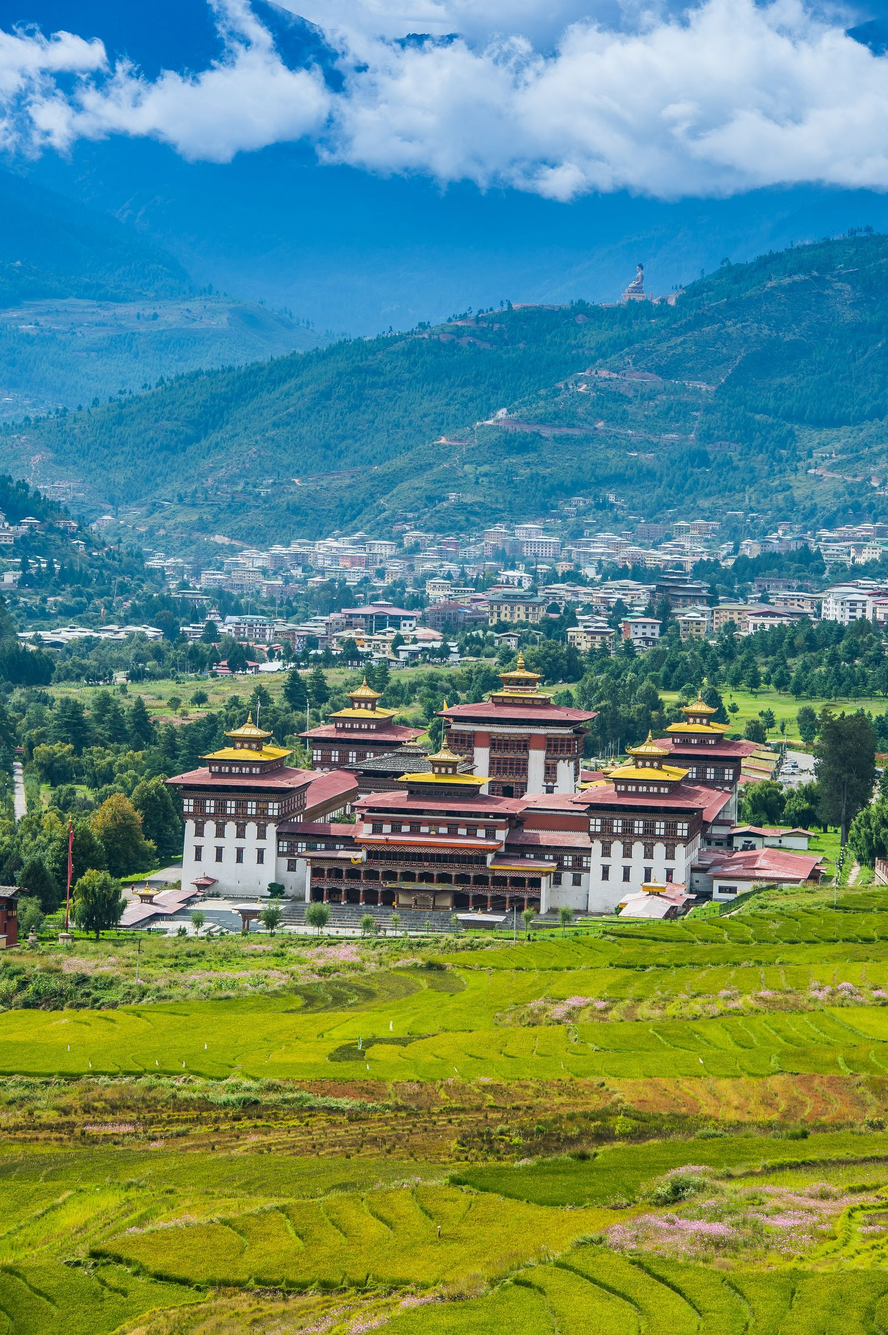
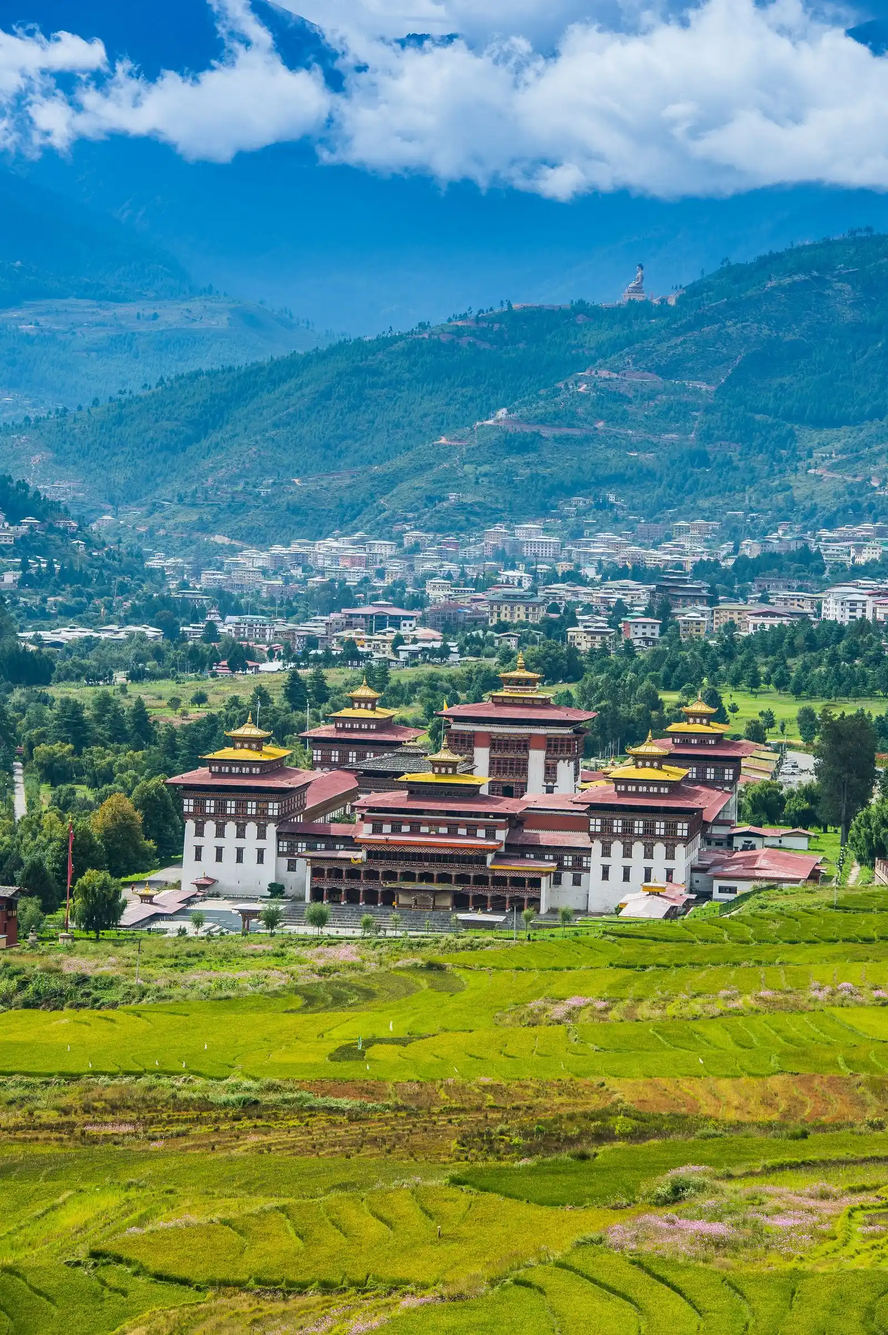
Changes done With Optimization

diff --git a/src/app/exploreIndia/page.jsx b/src/app/exploreIndia/page.jsx
@@ -90,7 +90,7 @@ const exploreIndia = () => {
             <div className="w-fit h-fit flex  ">
               <div className="w-[413px] aspect-[4/5]  overflow-hidden img5">
                 <Image
-                  src={`/india/jaipur1.jpeg`}
+                  src={`/india/jaipur1.webp`}
                   className="w-full h-full  object-cover object-center scale-[1.2]"
                   width={1000}
                   height={1000}
@@ -175,7 +175,7 @@ const exploreIndia = () => {
             <div className="w-fit h-fit flex  ">
               <div className="w-[50vw] h-fit  overflow-hidden img5">
                 <Image
-                  src={`/india/Delhi1.jpeg`}
+                  src={`/india/Delhi1.webp`}
                   className="w-full h-full  object-cover object-center scale-[1.2]"
                   width={2000}
                   height={2000}
@@ -204,7 +204,7 @@ const exploreIndia = () => {
           <div className=" animate_child w-fit h-screen mr-[2vw] flex justify-center items-center">
             <div className="w-[70vw] h-screen flex overflow-hidden ">
               <img
-                src={`/india/Delhi2.jpeg`}
+                src={`/india/Delhi2.webp`}
                 className="w-full h-full object-cover  object-center"
                 alt="Img"
               />
@@ -216,7 +216,7 @@ const exploreIndia = () => {
             <div className="w-fit h-fit flex  ">
               <div className="w-[50vw]  aspect-[3/2]  overflow-hidden img5">
                 <Image
-                  src={`/india/AGRA1.jpeg`}
+                  src={`/india/AGRA1.webp`}
                   className="w-full h-full  object-cover object-center scale-[1.2]"
                   width={2000}
                   height={2000}
@@ -245,7 +245,7 @@ const exploreIndia = () => {
           <div className="animate_child w-fit h-screen mr-[2vw] flex justify-center items-center">
             <div className="w-[413px] aspect-[4/5] flex overflow-hidden ">
               <Image
-                src={`/india/AGRA2.jpeg`}
+                src={`/india/AGRA2.webp`}
                 className="w-full h-full object-cover  object-center"
                 width={1000}
                 height={1000}
@@ -261,7 +261,7 @@ const exploreIndia = () => {
             <div className="w-fit h-fit flex  ">
               <div className="w-[50vw] h-fit  overflow-hidden img5">
                 <Image
-                  src={`/india/Mumbai1.jpeg`}
+                  src={`/india/Mumbai1.webp`}
                   className="w-full h-full  object-cover object-center scale-[1.2]"
                   width={2000}
                   height={2000}
@@ -290,7 +290,7 @@ const exploreIndia = () => {
           <div className=" animate_child w-fit h-screen mr-[2vw] flex justify-center items-center">
             <div className="w-[70vw] h-screen flex overflow-hidden ">
               <img
-                src={`/india/Mumbai2.jpeg`}
+                src={`/india/Mumbai2.webp`}
                 className="w-full h-full object-cover  object-center"
 
                 alt="Img"
@@ -303,7 +303,7 @@ const exploreIndia = () => {
             <div className="w-fit h-fit flex  ">
               <div className="w-[413px] aspect-[4/5]  overflow-hidden img5">
                 <Image
-                  src={`/india/Goa1.jpg`}
+                  src={`/india/Goa1.webp`}
                   className="w-full h-full  object-cover object-center scale-[1.2]"
                   width={1000}
                   height={1000}
@@ -332,7 +332,7 @@ const exploreIndia = () => {
           <div className=" w-fit h-screen mr-[2vw] flex justify-center items-center">
             <div className="w-[413px] aspect-[4/5] flex overflow-hidden ">
               <Image
-                src={`/india/Goa2.jpeg`}
+                src={`/india/Goa2.webp`}
                 className="w-full h-full object-cover  object-center"
                 width={1000}
                 height={1000}
@@ -375,7 +375,7 @@ const exploreIndia = () => {
           <div className=" animate_child w-fit h-screen mr-[2vw] flex justify-center items-center">
             <div className="w-[413px] aspect-[4/5] flex overflow-hidden ">
               <Image
-                src={`/india/Kerala2.jpeg`}
+                src={`/india/Kerala2.webp`}
                 className="w-full h-full object-cover  object-center"
                 width={1000}
                 height={1000}
@@ -389,7 +389,7 @@ const exploreIndia = () => {
             <div className="w-fit h-fit flex  ">
               <div className="w-[50vw] h-fit  overflow-hidden img5">
                 <Image
-                  src={`/india/Jammu1.jpg`}
+                  src={`/india/Jammu1.webp`}
                   className="w-full h-full  object-cover object-center scale-[1.2]"
                   width={2000}
                   height={2000}
@@ -418,7 +418,7 @@ const exploreIndia = () => {
           <div className=" animate_child w-fit h-screen mr-[2vw] flex justify-center items-center">
             <div className="w-[70vw] h-screen flex overflow-hidden ">
               <img
-                src={`/india/Jammu2.jpeg`}
+                src={`/india/Jammu2.webp`}
                 className="w-full h-full object-cover  object-center"
                 alt="Img"
               />
@@ -476,7 +476,7 @@ const exploreIndia = () => {
             <div className="w-fit h-fit flex  ">
               <div className="w-[50vw] h-fit  overflow-hidden img5">
                 <Image
-                  src={`/india/Uttarakhand1.jpeg`}
+                  src={`/india/Uttarakhand1.webp`}
                   className="w-full h-full  object-cover object-center scale-[1.2]"
                   width={2000}
                   height={2000}
@@ -505,7 +505,7 @@ const exploreIndia = () => {
           <div className=" animate_child w-fit h-screen mr-[2vw] flex justify-center items-center">
             <div className="w-[70vw] h-screen flex overflow-hidden ">
               <img
-                src={`/india/Uttarakhand1.jpeg`}
+                src={`/india/Uttarakhand1.webp`}
                 className="w-full h-full object-cover  object-center"
 
                 alt="Img"
@@ -518,7 +518,7 @@ const exploreIndia = () => {
             <div className="w-fit h-fit flex  ">
               <div className="w-[413px] aspect-[4/5]  overflow-hidden img5">
                 <Image
-                  src={`/india/Andaman1.jpg`}
+                  src={`/india/Andaman1.webp`}
                   className="w-full h-full  object-cover object-center scale-[1.2]"
                   width={1000}
                   height={1000}
@@ -547,7 +547,7 @@ const exploreIndia = () => {
           <div className=" w-fit h-screen mr-[2vw] flex justify-center items-center">
             <div className="w-[413px] aspect-[4/5] flex overflow-hidden ">
               <Image
-                src={`/india/Andaman2.jpeg`}
+                src={`/india/Andaman2.webp`}
                 className="w-full h-full object-cover  object-center"
                 width={1000}
                 height={1000}
@@ -561,7 +561,7 @@ const exploreIndia = () => {
             <div className="w-fit h-fit flex  ">
               <div className="w-[50vw] h-screen  overflow-hidden img5">
                 <Image
-                  src={`/india/Lakshadweep1.jpg`}
+                  src={`/india/Lakshadweep1.webp`}
                   className="w-full h-full  object-cover object-center scale-[1.2]"
                   width={2000}
                   height={2000}
@@ -689,7 +689,7 @@ const exploreIndia = () => {
             <div className="w-fit h-fit flex  ">
               <div className="w-[50vw] h-fit  overflow-hidden img5">
                 <Image
-                  src={`/india/Nepal1.jpg`}
+                  src={`/india/Nepal1.webp`}
                   className="w-full h-full  object-cover object-center scale-[1.2]"
                   width={2000}
                   height={2000}
@@ -863,7 +863,7 @@ const exploreIndia = () => {
 
           {/* img1 */}
           <div className="w-full aspect-2/1 overflow-hidden ">
-            <img src={`/india/jaipur1.jpeg`} className="w-full h-full object-cover  object-center" alt="img" />
+            <img src={`/india/jaipur1.webp`} className="w-full h-full object-cover  object-center" alt="img" />
           </div>
 
           {/* img2 */}
@@ -919,12 +919,12 @@ const exploreIndia = () => {
 
           {/* img1 */}
           <div className="w-full aspect-2/1 overflow-hidden ">
-            <img src={`/india/Delhi1.jpeg`} className="w-full h-full object-cover  object-center" alt="img" />
+            <img src={`/india/Delhi1.webp`} className="w-full h-full object-cover  object-center" alt="img" />
           </div>
 
           {/* img2 */}
           <div className="w-full aspect-1/1 overflow-hidden ">
-            <img src={`/india/Delhi2.jpeg`} className="w-full h-full object-cover  object-center" alt="img" />
+            <img src={`/india/Delhi2.webp`} className="w-full h-full object-cover  object-center" alt="img" />
           </div>
 
           {/* 4 ---------------------------------------------------------------------------------- */}
@@ -947,12 +947,12 @@ const exploreIndia = () => {
 
           {/* img1 */}
           <div className="w-full aspect-2/1 overflow-hidden ">
-            <img src={`/india/AGRA1.jpeg`} className="w-full h-full object-cover  object-center" alt="img" />
+            <img src={`/india/AGRA1.webp`} className="w-full h-full object-cover  object-center" alt="img" />
           </div>
 
           {/* img2 */}
           <div className="w-full aspect-1/1 overflow-hidden ">
-            <img src={`/india/AGRA2.jpeg`} className="w-full h-full object-cover  object-center" alt="img" />
+            <img src={`/india/AGRA2.webp`} className="w-full h-full object-cover  object-center" alt="img" />
           </div>
 
           {/* 5 ---------------------------------------------------------------------------------- */}
@@ -975,12 +975,12 @@ const exploreIndia = () => {
 
           {/* img1 */}
           <div className="w-full aspect-2/1 overflow-hidden ">
-            <img src={`/india/Mumbai1.jpeg`} className="w-full h-full object-cover  object-center" alt="img" />
+            <img src={`/india/Mumbai1.webp`} className="w-full h-full object-cover  object-center" alt="img" />
           </div>
 
           {/* img2 */}
           <div className="w-full aspect-1/1 overflow-hidden ">
-            <img src={`/india/Mumbai2.jpeg`} className="w-full h-full object-cover  object-center" alt="img" />
+            <img src={`/india/Mumbai2.webp`} className="w-full h-full object-cover  object-center" alt="img" />
           </div>
 
           {/* 1 ---------------------------------------------------------------------------------- */}
@@ -1003,12 +1003,12 @@ const exploreIndia = () => {
 
           {/* img1 */}
           <div className="w-full aspect-2/1 overflow-hidden ">
-            <img src={`/india/Goa1.jpg`} className="w-full h-full object-cover  object-center" alt="img" />
+            <img src={`/india/Goa1.webp`} className="w-full h-full object-cover  object-center" alt="img" />
           </div>
 
           {/* img2 */}
           <div className="w-full aspect-1/1 overflow-hidden ">
-            <img src={`/india/Goa2.jpeg`} className="w-full h-full object-cover  object-center" alt="img" />
+            <img src={`/india/Goa2.webp`} className="w-full h-full object-cover  object-center" alt="img" />
           </div>
 
           {/* 2 ---------------------------------------------------------------------------------- */}
@@ -1036,7 +1036,7 @@ const exploreIndia = () => {
 
           {/* img2 */}
           <div className="w-full aspect-1/1 overflow-hidden ">
-            <img src={`/india/Kerala2.jpeg`} className="w-full h-full object-cover  object-center" alt="img" />
+            <img src={`/india/Kerala2.webp`} className="w-full h-full object-cover  object-center" alt="img" />
           </div>
 
           {/* 3 ---------------------------------------------------------------------------------- */}
@@ -1059,12 +1059,12 @@ const exploreIndia = () => {
 
           {/* img1 */}
           <div className="w-full aspect-2/1 overflow-hidden ">
-            <img src={`/india/Jammu1.jpg`} className="w-full h-full object-cover  object-center" alt="img" />
+            <img src={`/india/Jammu1.webp`} className="w-full h-full object-cover  object-center" alt="img" />
           </div>
 
           {/* img2 */}
           <div className="w-full aspect-1/1 overflow-hidden ">
-            <img src={`/india/Jammu2.jpeg`} className="w-full h-full object-cover  object-center" alt="img" />
+            <img src={`/india/Jammu2.webp`} className="w-full h-full object-cover  object-center" alt="img" />
           </div>
 
           {/* 4 ---------------------------------------------------------------------------------- */}
@@ -1115,12 +1115,12 @@ const exploreIndia = () => {
 
           {/* img1 */}
           <div className="w-full aspect-2/1 overflow-hidden ">
-            <img src={`/india/Uttarakhand1.jpeg`} className="w-full h-full object-cover  object-center" alt="img" />
+            <img src={`/india/Uttarakhand1.webp`} className="w-full h-full object-cover  object-center" alt="img" />
           </div>
 
           {/* img2 */}
           <div className="w-full aspect-1/1 overflow-hidden ">
-            <img src={`/india/Uttarakhand1.jpeg`} className="w-full h-full object-cover  object-center" alt="img" />
+            <img src={`/india/Uttarakhand1.webp`} className="w-full h-full object-cover  object-center" alt="img" />
           </div>
 
           {/* 1 ---------------------------------------------------------------------------------- */}
@@ -1143,12 +1143,12 @@ const exploreIndia = () => {
 
           {/* img1 */}
           <div className="w-full aspect-2/1 overflow-hidden ">
-            <img src={`/india/Andaman1.jpg`} className="w-full h-full object-cover  object-center" alt="img" />
+            <img src={`/india/Andaman1.webp`} className="w-full h-full object-cover  object-center" alt="img" />
           </div>
 
           {/* img2 */}
           <div className="w-full aspect-1/1 overflow-hidden ">
-            <img src={`/india/Andaman2.jpeg`} className="w-full h-full object-cover  object-center" alt="img" />
+            <img src={`/india/Andaman2.webp`} className="w-full h-full object-cover  object-center" alt="img" />
           </div>
 
           {/* 2 ---------------------------------------------------------------------------------- */}
@@ -1171,7 +1171,7 @@ const exploreIndia = () => {
 
           {/* img1 */}
           <div className="w-full aspect-2/1 overflow-hidden ">
-            <img src={`/india/Lakshadweep1.jpg`} className="w-full h-full object-cover  object-center" alt="img" />
+            <img src={`/india/Lakshadweep1.webp`} className="w-full h-full object-cover  object-center" alt="img" />
           </div>
 
           {/* img2 */}
@@ -1204,7 +1204,7 @@ const exploreIndia = () => {
 
           {/* img2 */}
           <div className="w-full aspect-1/1 overflow-hidden ">
-            <img src={`/imgs/explorNewImg/pales.jpg`} className="w-full h-full object-cover  object-center" alt="img" />
+            <img src={`/imgs/explorNewImg/pales.webp`} className="w-full h-full object-cover  object-center" alt="img" />
           </div>
 
           {/* 4 ---------------------------------------------------------------------------------- */}
@@ -1255,7 +1255,7 @@ const exploreIndia = () => {
 
           {/* img1 */}
           <div className="w-full aspect-2/1 overflow-hidden ">
-            <img src={`/india/Nepal1.jpg`} className="w-full h-full object-cover  object-center" alt="img" />
+            <img src={`/india/Nepal1.webp`} className="w-full h-full object-cover  object-center" alt="img" />
           </div>
 
           {/* img2 */}

diff --git a/src/components/common/Footer.jsx b/src/components/common/Footer.jsx
@@ -48,11 +48,11 @@ const Footer = () => {
 
 
 
-          {/* <div className="w-fit ml-auto  flex  flex-col COLOR_TEXT_RED max-md:text-[14px] max-md:mx-auto max-md:text-center max-md:mt-5 ">
+          <div className="w-fit ml-auto  flex  flex-col COLOR_TEXT_RED max-md:text-[14px] max-md:mx-auto max-md:text-center max-md:mt-5 my-auto ">
 
-            <span className=" Font_YV flex md:justify-end max-md:mx-auto ">Website designed & developed by :</span>
+            <span className=" Font_YV flex md:justify-end max-md:mx-auto font-semibold ">Payments are securely processed by EDD United Pvt. Ltd.</span>
 
-            <span className=" Font_YV flex gap-2 md:ml-auto max-md:mx-auto">
+            {/* <span className=" Font_YV flex gap-2 md:ml-auto max-md:mx-auto">
               <a href="https://www.bombaylettering.com/" target="blank"><span className=" relative flex flex-col w-fit  group  cursor-pointer select-none font-semibold ">  The Bombay Lettering Company
                 <div className="h-[1px] w-[0px] COLOR_BG_RED transition-all duration-150 ease-in-out group-hover:w-full select-none  ">
                 </div>
@@ -63,14 +63,14 @@ const Footer = () => {
                 <div className="h-[1px] w-[0px] COLOR_BG_RED transition-all duration-150 ease-in-out group-hover:w-full select-none  ">
                 </div>
               </span></a>
-            </span>
+            </span> */}
 
-          </div> */}
+          </div>
 
         </div>
 
         
-        <span className=" Font_YV flex ml-auto COLOR_BG_CREAM  border-t border-[#5513013b] w-full justify-end px-10 py-2 COLOR_TEXT_RED font-semibold">Payments are securely processed by EDD United Pvt. Ltd.</span>
+        {/* <span className=" Font_YV flex ml-auto COLOR_BG_CREAM  border-t border-[#5513013b] w-full justify-end px-10 py-2 COLOR_TEXT_RED font-semibold">Payments are securely processed by EDD United Pvt. Ltd.</span> */}
 
 
       </footer>

diff --git a/src/components/sections/venue/TravelInfo.jsx b/src/components/sections/venue/TravelInfo.jsx
@@ -59,13 +59,13 @@ const TravelInfo = () => {
   }, [])
 
   return (
-    <section className="relative COLOR_BG_RED py-32 px-6 overflow-hidden">
+    <section className="relative COLOR_BG_RED py-32 px-6 overflow-hidden ">
 
       {/* Background oversized text */}
       <div className="absolute inset-0 flex flex-col justify-center gap-10 COLOR_TEXT_CREAM opacity-5 pointer-events-none">
 
         {/* ROW 1 */}
-        <div className="flex whitespace-nowrap uppercase Font_Q" ref={row1}>
+        <div className="flex whitespace-nowrap uppercase Font_Q " ref={row1}>
           {[...Array(16)].map((_, i) => (
             <h5 key={i} className="text-[7vw] leading-[7vw] max-sm:text-[20vw] max-sm:leading-[20vw]">
               Travel Information
@@ -83,7 +83,7 @@ const TravelInfo = () => {
         </div>
 
         {/* ROW 3 */}
-        <div className="flex whitespace-nowrap uppercase Font_Q" ref={row3}>
+        <div className="flex whitespace-nowrap uppercase Font_Q  mb-7" ref={row3}>
           {[...Array(16)].map((_, i) => (
             <h5 key={i} className="text-[7vw] leading-[7vw] max-sm:text-[20vw] max-sm:leading-[20vw]">
               Travel Information

diff --git a/src/components/common/NavBar.jsx b/src/components/common/NavBar.jsx
@@ -124,7 +124,7 @@ const NavBar = () => {
       </div>
 
       {/* Right */}
-      <div className='w-1/3  h-full RVSPBTN items-center max-lg:hidden flex justify-between uppercase text-[14px]   COLOR_TEXT_RED'>
+      <div className='w-2/5  h-full RVSPBTN items-center max-lg:hidden flex justify-between uppercase text-[14px]   COLOR_TEXT_RED'>
 
 
         <Link href={`/faq`} ><div className={`w-fit h-fit ${pathname === '/faq' && (' border-b border-[#551301]')}  flex flex-col group relative  COLOR_TEXT_RED select-none cursor-pointer`}> <div className=' absolute bottom-0 left-0 w-0 h-0.5 group-hover:w-full duration-200 ease-out COLOR_BG_RED'></div>FAQ</div></Link>
